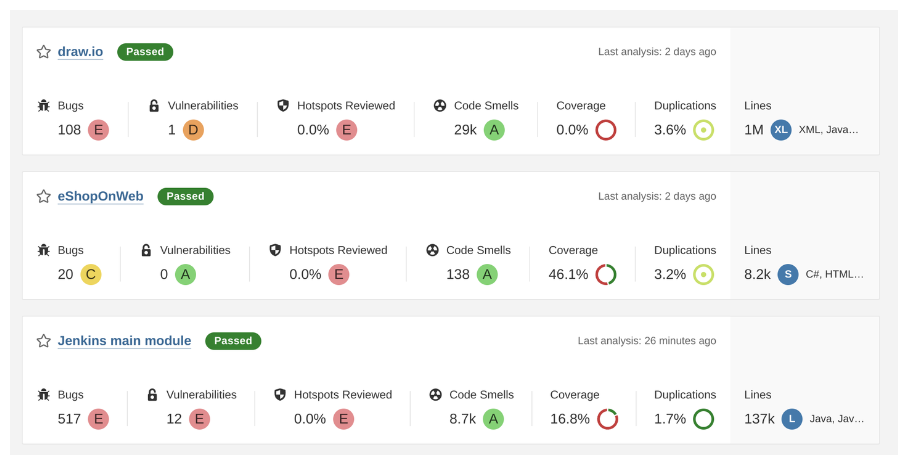
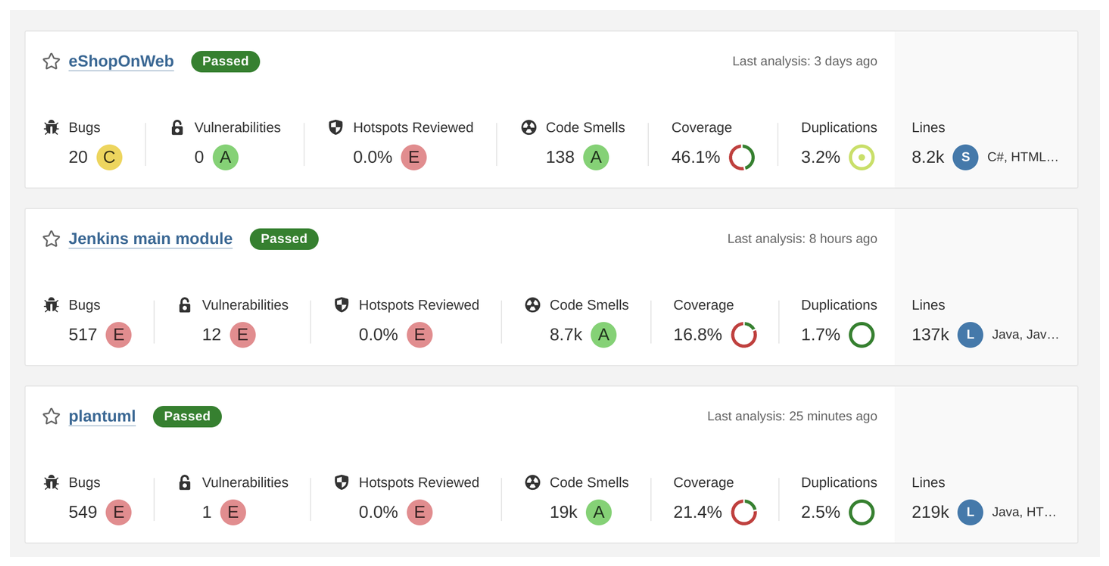
doc: replace draw.io with plantUML

diff --git a/README.MD b/README.MD
@@ -12,13 +12,17 @@ We are going to work with a locally installed version of SonarQube. There are a 
 
 We need an installed java version for SonarQube and also for the software examples we are going to analyze. It is very much recommended to use a **LTS OpenJDK** version. Go to https://adoptium.net/ to download the current java LTS version **Open-JDK-17**.
 
-### 1.2 .NET
+### 1.2 Maven build tool
+
+We need Maven for one of the projects we are analyzing. Specifically we need a recent version >= **3.8.1**. Go to the [Maven download](https://maven.apache.org/download.cgi) page and install the correct version.
+
+### 1.3 .NET
 
 The .NET version of Microsoft is available for a number of different platforms (Windows, Mac, Linux) and can be freely downloaded and installed. .NET also uses a LTS approach. The current LTS version is .NET 6.0. Our .NET example uses the current version which is .NET 7.0. Head over to https://dotnet.microsoft.com/en-us/download and install the current version **.NET 7.0**.
 
-### 1.3 SonarQube Installation
+### 1.4 SonarQube Installation
 
-#### 1.3.1 SonarQube standalone instance
+#### 1.4.1 SonarQube standalone instance
 
 We will use the 'Community Edition' because it can be used freely without the need for any payment. Download this version from the page https://www.sonarsource.com/products/sonarqube/downloads/.
 
@@ -38,7 +42,7 @@ Removed stale pid file: ./SonarQube.pid
 2023.03.26 14:58:43 INFO  app[][o.s.a.SchedulerImpl] SonarQube is operational
 ```
 
-#### 1.3.2 SonarQube as a container
+#### 1.4.2 SonarQube as a container
 
 If your OS is capable of running containers, SonarQube does not need to be downloaded, starting the SonarQube container image is sufficient to run a local instance.
 
@@ -95,63 +99,82 @@ Attaching to sonarqube
 sonarqube  | 2023.03.26 13:31:31 INFO  app[][o.s.a.SchedulerImpl] SonarQube is operational
 ```
 
-### 1.4 Sonar Scanner
-
-SonarQube provides a couple of convenient scanners for common technologies or integrations (Gradle, Maven, ant, .NET, AzureDevops, Jenkins). If the project to analyze does not fall within this range of "predefined integrations" the standalone [Sonar Scanner](https://docs.sonarqube.org/latest/analyzing-source-code/scanners/sonarscanner/) can be used.
-
-Again there are two possibilities to run the Scanner - download the **zip-file**. Download the OS-specific version or the JVM only version and extract the Scanner into a local directory.
-
-### 1.5 Maven build tool
-
-We need Maven for one of the projects we are analyzing. Specifically we need a recent version >= **3.8.1**. Go to the [Maven download](https://maven.apache.org/download.cgi) page and install the correct version.
-
-### 1.6 Ant build tool
-
-One of the projects we are going to analyze uses the [ant build system](https://ant.apache.org/). Follow the instructions to install ant - https://ant.apache.org/bindownload.cgi.
-
 <hr/>
 
 ## 2. Analyze Projects
 
 We are going to analyze Open-Source projects and interpret the scan results / metrics.
 
-- Draw.io - Online Diagram application (Java and Javascript)
+- plantUML - A DSL to generate wide variety of UML diagrams (Java)
 - eShopOnWeb - Reference .NET application implementing a Shop example (.NET)
 - Jenkins - Well known build server (Java and Javascript)
 
 With this projects we see the different integration possibilities of SonarQube and the coverage of different technology.
 
-### 2.1 draw.io
+### 2.1 plantUML
 
-[Draw.io](https://github.com/jgraph/drawio) is a very useful diagram application which can be described as "Microsoft Visio in the Web-Browser". The github page explains draw.io
+[plantUML](https://github.com/plantuml/plantuml) is a versatile DSL written in Java which can be used to generate a number of diagram types. It provides the capability to create UML diagrams but is not limited to UML only; Gantt, MindMaps, ER-Diagrams, ...
 
-> draw.io is a JavaScript, client-side editor for general diagramming and whiteboarding
+> Generate diagrams from textual description
 
 To analyze the application the following steps need to be performed:
 
 1. Ensure the local SonarQube instance is running - http://localhost:9000
 2. Create a new SonarQube project in **manual mode**
-3. Enter data DisplaName / Key = `draw.io`
+3. Enter data DisplaName / Key = `plantuml`
 4. Click Analyze project **Locally**
 5. Create a token
-6. Analyze with **other build** option
-7. Select your OS
-8. clone the git repository to local folder https://github.com/jgraph/drawio.git (INFO - commit#: `8d9a9926`)
-9. change into the local folder of the cloned repository (e.g. ./drawio)
-10. change to build folder `./etc/build`
-11. build the project with `ant` and `ant javac` (optional set `JAVA_HOME` for ant to work properly)
-12. run the installed `sonar-scanner` in the root-folder the draw.io src (NOTE: use relative path to the sonar-scanner location)
+6. Analyze with **Gradle** option
+7. Clone the git repository to local folder https://github.com/plantuml/plantuml.git (commit# `b9a27f044`)
+8. Change into the local folder of the cloned repository (e.g. ./plantuml)
+9. Set the Gradle version via the Gradle-Wrapper
 
 ```bash
-sonar-scanner -Dsonar.projectKey=draw.io \
-    -Dsonar.sources=./src \
-    -Dsonar.host.url=http://localhost:9000 \
-    -Dsonar.login=<generated-sonar-key> \
-    -Dsonar.java.binaries=./src/main/webapp/WEB-INF/classes
+# sonarqube gradle plugin does not work with the latest gradle version 8.x
+# https://community.sonarsource.com/t/sonarqube-gradle-task-with-gradle-8-produces-a-crash-on-report-getoutputlocation/81252
+./gradlew wrapper --gradle-version=7.6.1 --distribution-type=bin
+``` 
 
+10. Change the file `build.gradle.kts` file in the cloned git repo in `./plantuml` and enable SonarQube integration
+
+```diff
+--- build.gradle.kts	2023-04-04 18:39:01.512208110 +0200
++++ sonar/build.gradle.kts	2023-04-04 18:38:56.052125037 +0200
+@@ -10,8 +10,28 @@
+ 	java
+ 	`maven-publish`
+ 	signing
++	id("org.sonarqube") version "3.5.0.2730"
++	id("jacoco")
+ }
+ 
++jacoco {
++	toolVersion = "0.8.8"
++}
++
++tasks.jacocoTestReport {
++	reports {
++    		xml.required.set(true)
++    		csv.required.set(false)
++    		html.required.set(false)
++	}
++}
++
++// when subproject has Jacoco pLugin applied we want to generate XML report for coverage
++plugins.withType<JacocoPlugin> {
++	tasks["test"].finalizedBy("jacocoTestReport")
++}
+``` 
+11. Start the gradle build
+
+```bash
+./gradlew test sonar -PjavacRelease=17  \                 
+  -Dsonar.projectKey=plantuml \
+  -Dsonar.host.url=http://localhost:9000 \
+  -Dsonar.login=<generated-sonar-key>
 ```
 
-13.  Review the imported analyzes results within the SonarQube instance.
+12.   Review the imported analyzes results within the SonarQube instance.
 
 ### 2.2 dotnet-architecture/eShopOnWeb
 
@@ -169,7 +192,7 @@ The steps to analyze the application are very similar to the example of draw.io.
 6. Analyze with **.NET** option
 7. Choose build tool **.NET core**
 8. Install the sonar scanner as a dotnet-tool `dotnet tool install --global dotnet-sonarscanner`
-9. clone the git repository to local folder https://github.com/dotnet-architecture/eShopOnWeb.git (INFO - commit#: `8d9a917`)
+9. clone the git repository to local folder https://github.com/dotnet-architecture/eShopOnWeb.git (commit# `8d9a917`)
 10. change into the local folder of the cloned repository (e.g. ./eShopOnWeb)
 11. Restore the necessary packages `dotnet restore Everything.sln`
 12. Start sonar-scanner and build
@@ -225,7 +248,7 @@ To analyze the source of Jenkins additional parameters are needed, apart from th
 4. Click Analyze project **Locally**
 5. Create a token
 6. Analyze with **.Maven** option
-7. clone the git repository to local folder https://github.com/jenkinsci/jenkins.git (INFO - commit#: `319dfc6134`)
+7. clone the git repository to local folder https://github.com/jenkinsci/jenkins.git (commit# `319dfc6134`)
 8. change into the local folder of the cloned repository (e.g. ./jenkins)
 9. Start maven with goal sonar
 
